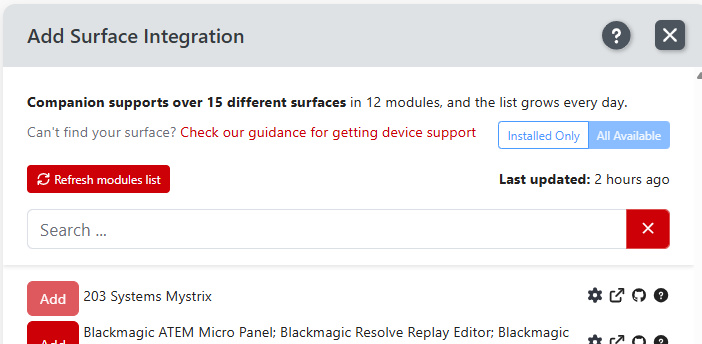
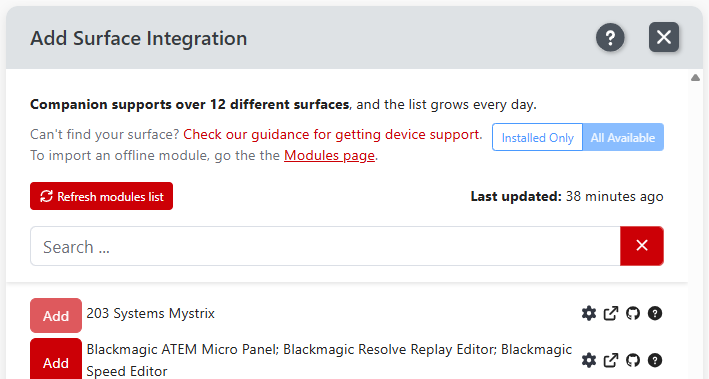
fix: only show modules counts (PR updates docs and a bit more)
- also add link to modules page from Connections/Surfaces to assist people wanting to import an offline module.
- update user-guide images

diff --git a/webui/src/Instances/AddInstancePanel.tsx b/webui/src/Instances/AddInstancePanel.tsx
@@ -30,7 +30,7 @@ interface AddInstancePanelProps {
 
 	title: string
 	helpAction: ContextHelpButtonProps['action']
-	description: (devicesCount: number, modulesCount: number) => React.ReactNode
+	description: (modulesCount: number) => React.ReactNode
 	isSubpanel?: boolean
 }
 
@@ -54,8 +54,10 @@ export const AddInstancePanel = observer(function AddInstancePanel({
 		available: true,
 	})
 
+	// The number of modules (see next comment)
 	const storeModulesOfTypeCount = modules.countStoreModulesOfType(service.moduleType)
 
+	// A module can support several devices: useAllModuleProducts returns the list of devices, so some modules are represented by several entries here.
 	const allProducts = useAllModuleProducts(service.moduleType)
 	const typeProducts = allProducts.filter(
 		(p) => storeModulesOfTypeCount === 0 || !!p.installedInfo || typeFilter.visibility.available
@@ -122,7 +124,7 @@ export const AddInstancePanel = observer(function AddInstancePanel({
 					<div className="add-connection-intro-section mb-3">
 						{storeModulesOfTypeCount > 0 ? (
 							<div className="intro-grid">
-								{description(allProducts.length, storeModulesOfTypeCount)}
+								{description(storeModulesOfTypeCount)}
 								<div className="intro-filter">
 									<CButtonGroup role="group" aria-label="Module visibility filter">
 										<CButton
@@ -148,7 +150,7 @@ export const AddInstancePanel = observer(function AddInstancePanel({
 							<CAlert color="info" className="mb-0">
 								<div className="d-flex align-items-center gap-2">
 									<FontAwesomeIcon icon={faPlug} className="text-info" />
-									{description(0, 0)}
+									{description(0)}
 								</div>
 							</CAlert>
 						)}

diff --git a/webui/src/Modules/ModulesList.tsx b/webui/src/Modules/ModulesList.tsx
@@ -51,9 +51,20 @@ export const ModulesList = observer(function ModulesList({ doManageModule, selec
 
 	const [filterType, setFilterType] = useState<ModuleInstanceType | null>(null)
 	const [filter, setFilter] = useState('')
-	const filterName =
-		filterType === null ? ' ' : filterType === ModuleInstanceType.Connection ? ' Connection ' : ' Surface '
+	const filterName = (() => {
+		if (filterType === null) return ' '
+		switch (filterType) {
+			case ModuleInstanceType.Connection:
+				return ' Connection '
+			case ModuleInstanceType.Surface:
+				return ' Surface '
+			default:
+				assertNever(filterType)
+				return ' '
+		}
+	})()
 
+	//  A module can support several devices: useAllModuleProducts returns the list of devices, so some modules are represented by several entries here.
 	const allProducts = useAllModuleProducts(null, true, true).filter((p) => !filterType || filterType === p.moduleType)
 	const typeProducts = allProducts.filter((p) => {
 		let isVisible = false
@@ -142,9 +153,10 @@ export const ModulesList = observer(function ModulesList({ doManageModule, selec
 					<ContextHelpButton action="/user-guide/config/modules" />
 				</h4>
 				<p className="mb-2">
-					<strong>Companion supports over {allProducts.length} different devices</strong> in{' '}
-					{`${modulesCount}${filterName}`}
-					modules, and the list grows every day.
+					<strong>
+						Companion can work with over {modulesCount} different{filterName}modules
+					</strong>{' '}
+					and the list grows every day.
 				</p>
 				<p>
 					View and manage your installed modules, or search for new ones to support additional devices. Can't find your

diff --git a/webui/src/Surfaces/Instances/AddSurfaceInstancePanel.tsx b/webui/src/Surfaces/Instances/AddSurfaceInstancePanel.tsx
@@ -1,4 +1,4 @@
-import { useNavigate } from '@tanstack/react-router'
+import { Link, useNavigate } from '@tanstack/react-router'
 import { observer } from 'mobx-react-lite'
 import { useMemo } from 'react'
 import { ModuleInstanceType } from '@companion-app/shared/Model/Instance.js'
@@ -21,13 +21,13 @@ export const AddSurfaceInstancePanel = observer(function AddSurfaceInstancePanel
 			isSubpanel={!!isSubpanel}
 			title="Add Surface Integration"
 			helpAction="/user-guide/surfaces/"
-			description={(storeCount, modulesCount) =>
-				storeCount > 0 ? (
+			description={(modulesCount) =>
+				modulesCount > 0 ? (
 					<>
 						<div className="intro-text">
 							<p className="mb-2">
-								<strong>Companion supports over {storeCount} different surfaces</strong> in {modulesCount} Surface
-								modules, and the list grows every day.
+								<strong>Companion supports over {modulesCount} different surfaces</strong>, and the list grows every
+								day.
 							</p>
 						</div>
 						<div>
@@ -40,6 +40,7 @@ export const AddSurfaceInstancePanel = observer(function AddSurfaceInstancePanel
 								>
 									Check our guidance for getting device support
 								</a>
+								.<br /> To import an offline module, go to the <Link to="/modules">Modules page</Link>.
 							</span>
 						</div>
 					</>

diff --git a/webui/src/Connections/AddConnectionPanel.tsx b/webui/src/Connections/AddConnectionPanel.tsx
@@ -1,4 +1,4 @@
-import { useNavigate } from '@tanstack/react-router'
+import { Link, useNavigate } from '@tanstack/react-router'
 import { observer } from 'mobx-react-lite'
 import { useContext, useMemo } from 'react'
 import { makeLabelSafe } from '@companion-app/shared/Label.js'
@@ -18,13 +18,12 @@ export const AddConnectionsPanel = observer(function AddConnectionsPanel() {
 			service={service}
 			title="Add New Connection"
 			helpAction="/user-guide/config/connections#adding-a-connection"
-			description={(storeCount, moduleCount) =>
-				storeCount > 0 ? (
+			description={(moduleCount) =>
+				moduleCount > 0 ? (
 					<>
 						<div className="intro-text">
 							<p className="mb-2">
-								<strong>Companion supports over {storeCount} different devices</strong> in {moduleCount} Connection
-								modules, and the list grows every day.
+								<strong>Companion supports over {moduleCount} different devices</strong>, and the list grows every day.
 							</p>
 						</div>
 						<div>
@@ -37,6 +36,7 @@ export const AddConnectionsPanel = observer(function AddConnectionsPanel() {
 								>
 									Check our guidance for getting device support
 								</a>
+								.<br /> To import an offline module, go to the <Link to="/modules">Modules page</Link>.
 							</span>
 						</div>
 					</>
